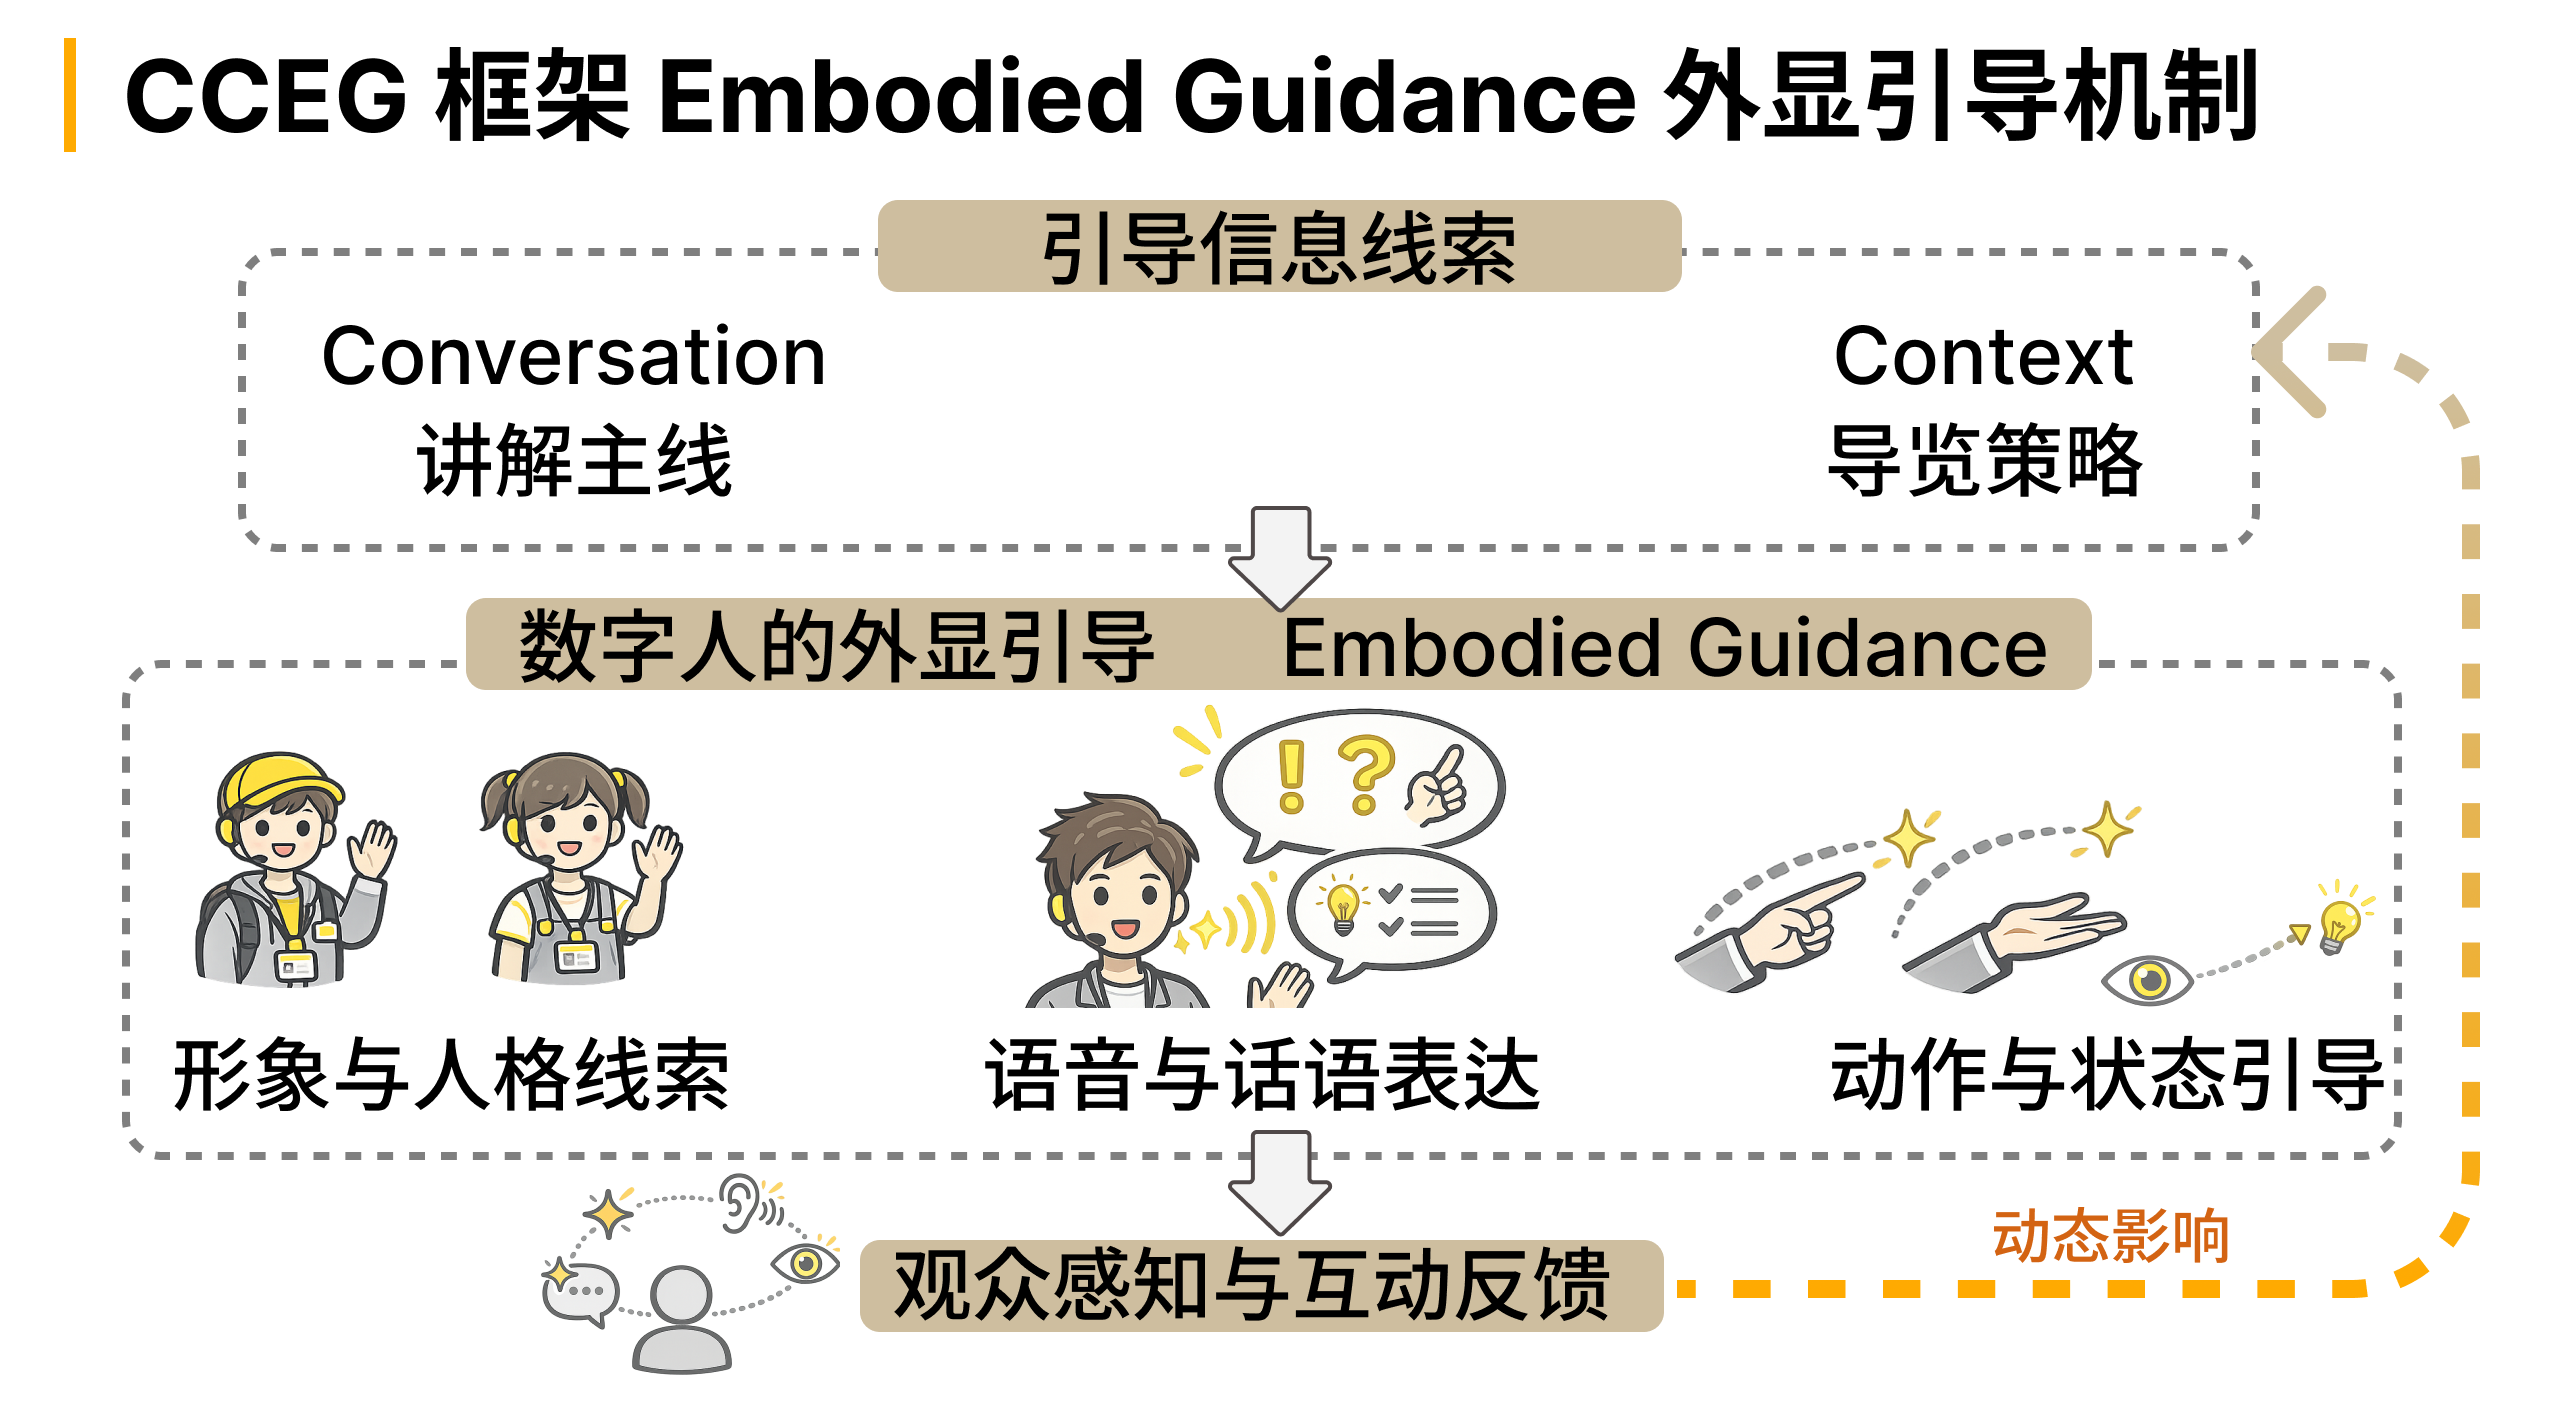
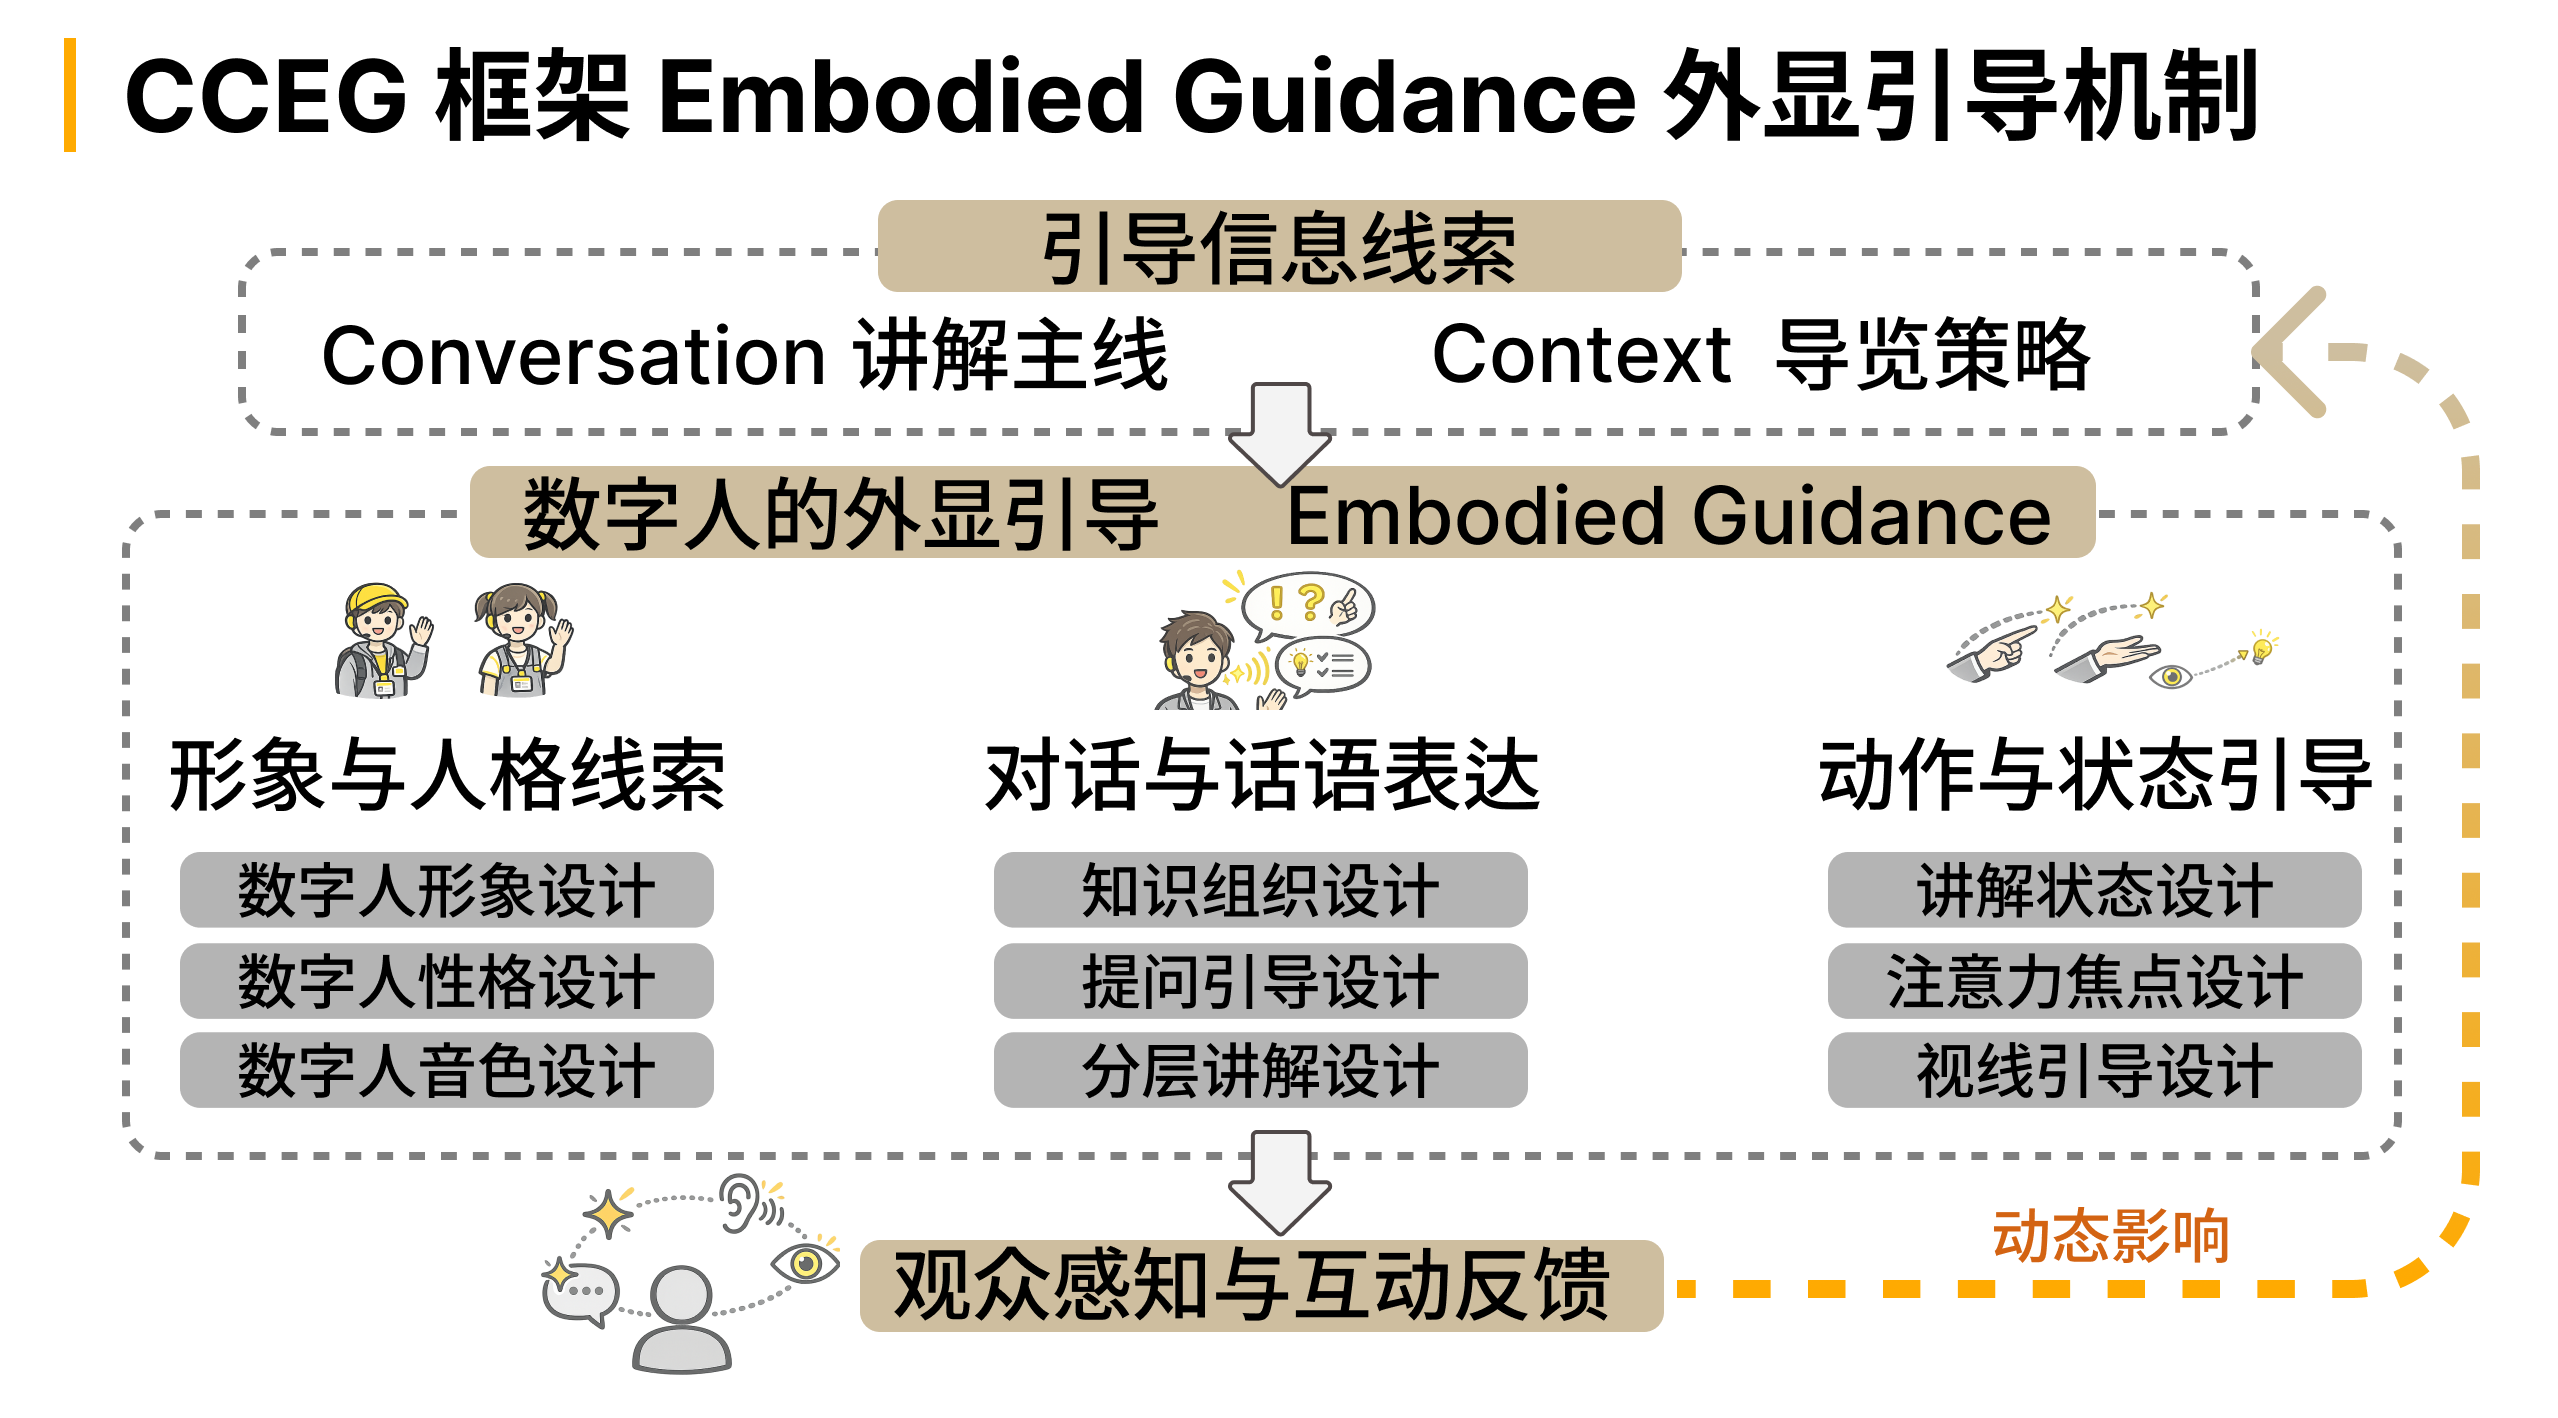
同步研究问题与论文修改

diff --git a/data/chapter6-implement.tex b/data/chapter6-implement.tex
@@ -15,19 +15,27 @@
 基于上述目标，本文通过对比不同导览方式下的用户体验与过程表现，考察对话式数字人导览原型系统在知识讲述、情境响应与注意力引导方面的实际效果，从而为本文提出的对话式数字人展示设计提供验证依据。
 
 \section{实验设计}
-为了评估本文所提出的对话式数字人展示设计在实际导览任务中的表现，本研究采用对比实验方法，将本文实现的 CCEG 对话式数字人导览原型系统与单轮问答式数字人导览基线系统进行比较，从而观察不同导览机制下用户体验与交互行为的差异。本文的研究目标在于验证 CCEG 设计作为整体导览方案相较于常见问答式数字人导览方式的有效性，本研究仅设置一个基线条件，不进一步拆分各模块进行消融比较。
+为了评估本文所提出的对话式数字人展示设计在实际导览任务中的表现，本研究采用对比实验方法，将本文实现的 CCEG 对话式数字人导览原型系统与传统问答数字人系统进行比较，从而观察不同导览机制下用户体验与交互行为的差异。本文的研究目标在于验证 CCEG 设计作为整体导览方案相较于常见问答式数字人导览方式的有效性，本研究仅设置一个基线条件，不进一步拆分各模块进行消融比较。
 
 实验设置两个条件：
 
-\textbf{（1）基线条件（单轮问答式数字人导览系统）}
+\textbf{（1）基线条件（传统问答数字人系统）}
 基线条件下，系统使用与实验系统相同的展品知识来源、数字人形象与语音输出方式，但仅针对用户当前问题给出单次回答，不维护连续对话中的导览情境状态，不进行主动追问、主题推进与讲解层次调节，也不提供面向展品对象的专门动作、视线与语气引导策略。该条件用于模拟当前较为常见的问答式数字人导览形态。
 
 \textbf{（2）实验条件（CCEG系统）}
 实验条件采用本文设计实现的对话式数字人导览原型系统。该系统在相同知识基础与数字人载体上，进一步加入面向导览任务的对话组织、情境状态维护与具身引导机制，使系统能够围绕当前展品持续组织讲解，并结合参观进程与表达策略进行导览引导。
 
-实验选取同一展区中的若干典型展品作为导览对象。为保证比较的可比性，两种条件下使用相同的展品内容与任务要求。参与者在实验过程中需要围绕这些展品完成一次简短的导览体验任务，包括浏览展品信息、向系统提出问题以及根据系统反馈继续了解相关内容。
+实验选取同一展区中的若干典型展品作为导览对象。为保证比较的可比性，两种条件下使用相同的展品内容、相同的任务要求、相同的数字人载体与相同的评价条目，参与者在实验过程中需要围绕这些展品完成一次简短的导览体验任务，包括浏览展品信息、向系统提出问题以及根据系统反馈继续了解相关内容。除导览机制本身外，其余条件尽可能保持一致，以控制无关变量对实验结果的影响。
 
-本实验共邀请 12 名参与者，参与者均为具有基础博物馆参观经验的学生或普通观众。为减弱体验顺序可能带来的影响，实验采用 A/B 两组交叉验证的方式进行：将参与者平均分为 A、B 两组，A 组先体验基线条件、后体验实验条件，B 组先体验实验条件、后体验基线条件。参与者在每次体验结束后分别填写问卷，对导览过程中的讲解连贯性、情境响应以及注意力引导等方面进行评价。
+本实验共邀请 12 名参与者，参与者均为具有基础博物馆参观经验的学生或普通观众。为减弱体验顺序可能带来的影响，实验采用 A/B 两组交叉验证的方式进行：将参与者平均分为 A、B 两组，A 组先体验基线条件、后体验实验条件，B 组先体验实验条件、后体验基线条件。实验过程中不向参与者说明当前所体验条件对应的系统类型，仅告知其完成两轮不同导览方式的体验任务。参与者在每次体验结束后分别填写相同问卷，对导览过程中的讲解连贯性、情境响应以及注意力引导等方面进行评价。
+
+如图\ref{fig:user-study-procedure}所示，实验通过 A/B 两组交叉验证的方式组织两种导览条件的体验顺序，以减弱先后体验带来的顺序影响。
+
+\begin{center}
+    \includegraphics[width=\textwidth]{figure/figs/User_study_procedure.png}
+    \captionof{figure}{用户实验流程示意图}
+    \label{fig:user-study-procedure}
+\end{center}
 
 实验流程如下：
 \begin{enumerate}
@@ -37,7 +45,7 @@
     \item A 组继续体验实验条件、B 组继续体验基线条件，并重复上述流程。
 \end{enumerate}
 
-通过对比两种条件下的用户评价与过程表现，可以观察完整 CCEG 导览设计相较于单轮问答式数字人导览方式，是否在知识讲述支持、情境响应能力以及注意力引导方面表现更优。
+通过对比两种条件下的用户评价与过程表现，可以观察完整 CCEG 导览设计相较于传统问答数字人系统，是否在知识讲述支持、情境响应能力以及注意力引导方面表现更优。
 
 \section{评估指标设计}
 为了对应验证本文提出的三个研究问题，实验评估不再采用笼统的整体满意度划分，而是围绕知识讲述支持、情境响应能力和注意力引导效果三个维度展开。该指标设计分别对应前文中提出的展品知识交互化呈现问题、导览情境维持问题以及数字人注意力引导不足问题，并与 CCEG 框架中的 Conversation、Context 和 Embodied Guidance 三个部分保持一致。

diff --git a/data/chapter1-intro.tex b/data/chapter1-intro.tex
@@ -31,7 +31,7 @@
 发现三：数字人的展示形态与导览任务之间仍存在错位。
 在走访中观察到，部分博物馆中的数字人更多以固定脚本、预录视频或演示型播报的方式出现，其优势在于形象鲜明、展示效果稳定，但在真实导览任务中的适配性有限。一方面，这类数字人通常难以随着观众提问、路径变化或现场语境变化进行调整；另一方面，其动作、视线、节奏与表达设计往往服务于“被观看”或“形象展示”，而非服务于观众在展厅中的理解、注意与移动引导。换言之，数字人已经被广泛用于传播展示，但其作为导览媒介的能力仍未得到充分发挥。
 
-上述前期发现表明，当前面向博物馆导览的数字人展示的主要问题并不只在于“能否回答问题”或“是否具有人形外观”，而在于其尚未有效支持真实参观过程中连续性的讲解组织、阶段性的情境适配以及面向导览任务的具身引导。基于此，本文将进一步结合对话式导览、博物馆学习与数字人展示等相关研究，梳理能够支撑博物馆导览体验的关键设计维度，并据此提出后续研究问题与设计框架。
+上述前期发现表明，当前面向博物馆导览的对话式数字人展示普遍缺乏认知层设计：相关展示虽然能够回答问题，却往往不知道应当组织什么层次的内容，难以感知当前参观情境，身体表达也常与讲解意图相互脱节。这使数字人更多停留在“能表达”的层面，而难以真正承担导览引导的任务。基于此，本文将进一步结合对话式导览、博物馆学习与数字人展示等相关研究，梳理能够支撑博物馆导览体验的关键设计维度，并据此提出后续研究问题与设计框架。
 
 \section{研究思路}
 本文围绕“面向博物馆导览的对话式数字人展示设计”展开，整体研究链路按照“研究背景—研究问题—研究内容—设计实践与验证”推进，如图1.1所示。研究起点是博物馆导览场景的数字化转型与人工智能生成技术/数字人技术的应用契机，核心目标是回答“如何设计面向博物馆导览的对话式数字人展示”。
@@ -43,7 +43,7 @@
     \label{fig:research-roadmap}
 \end{figure}
 
-据此，本文将研究问题归纳为三个方面：
+据此，本文将总问题进一步细化为三个子问题：
 \begin{enumerate}[label=（\arabic*）]
 \item 展品知识信息复杂，难以交互化呈现。现有相关展示常以固定脚本或单轮问答组织内容，难以形成分层解释、探索式提问引导与节奏化推进，导致观众获取到的是片段信息而非连续理解路径。
 \item 导览情境易断裂，参观状态难以把握。观众在空间移动、对象切换与问题变化中不断重构关注点，相关展示若缺少可持续的情境建模与状态维护，便难以提供“此时此地”的导览响应。

diff --git a/data/chapter3-download.tex b/data/chapter3-download.tex
@@ -15,7 +15,7 @@
 \textbf{（3）媒介约束：数字人展示是多模态外显系统。}
 在数字人导览中，语音、指向、视线、姿态与停顿共同构成“展示编排”，承担强调重点、回收注意力与提示行动的功能；若缺少可控的外显引导机制，系统将退化为“会说话的播报器”，难以形成可感知的引导感与节奏感。
 
-综上，面向博物馆导览的对话式数字人展示设计必须同时解决三类不可替代能力：\textbf{叙事组织（Conversation）}、\textbf{导览情境（Context）}与\textbf{外显引导（Embodied Guidance）}。CCEG 正是对这三类能力的最小结构化整合。
+综上，面向博物馆导览的对话式数字人展示设计必须同时解决三类不可替代能力：\textbf{叙事组织（Conversation）}、\textbf{导览情境（Context）}与\textbf{外显引导（Embodied Guidance）}。CCEG 正是对这三类能力的最小结构化整合。其中，Conversation 与 Context 共同处理导览中的认知层问题，即讲解内容如何被组织、当前参观情境如何被判断与维持；Embodied Guidance 则主要处理表达层问题，即这些内部组织结果如何进一步转化为观众能够直接感知的外显引导。
 
 \subsection{三维必要性：语言组织、导览情境与展示外显的不可替代性}
 \textbf{（1）叙事组织维度。}

diff --git a/weekly-progress-0120-0420.md b/weekly-progress-0120-0420.md
@@ -1,0 +1,105 @@
+# 论文每周进展记录（1月20日-4月20日）
+
+## 第1周（1月20日-1月26日）
+### 完成情况
+明确论文方向，初步确定博物馆导览与数字人研究范围。
+### 存在问题
+题目表述偏宽，研究对象与方法边界仍不够清楚。
+### 下周情况
+继续开展案例收集，梳理前期调研与研究动机材料。
+
+## 第2周（1月27日-2月2日）
+### 完成情况
+整理数字人导览案例，归纳真实场景中的主要问题表现。
+### 存在问题
+相关案例较分散，研究问题尚未形成稳定的表述结构。
+### 下周情况
+补充走访观察与访谈信息，推进研究动机部分写作。
+
+## 第3周（2月3日-2月9日）
+### 完成情况
+完成前期调研整理，形成研究动机与核心发现初稿。
+### 存在问题
+三个发现之间的逻辑衔接还不够紧密，措辞需统一。
+### 下周情况
+修改绪论内容，补写研究思路、研究方法与论文结构。
+
+## 第4周（2月10日-2月16日）
+### 完成情况
+完成第一章主要内容搭建，初步形成绪论章节框架。
+### 存在问题
+章节之间仍有重复，部分术语使用还不够一致准确。
+### 下周情况
+系统梳理国内外研究现状，调整第二章组织结构安排。
+
+## 第5周（2月17日-2月23日）
+### 完成情况
+完成第二章文献综述框架，整理相关研究主题与脉络。
+### 存在问题
+文献综述与后文设计问题之间的连接还不够直接清晰。
+### 下周情况
+继续补充理论基础内容，强化导览任务与学习视角关联。
+
+## 第6周（2月24日-3月2日）
+### 完成情况
+完成博物馆学习相关理论梳理，形成第三章前半部分。
+### 存在问题
+理论描述偏概念化，对设计框架的支撑关系仍需加强。
+### 下周情况
+补写对话式交互与具身数字人展示相关理论分析内容。
+
+## 第7周（3月3日-3月9日）
+### 完成情况
+基本完成第三章内容，形成理论基础与概念分析初稿。
+### 存在问题
+框架推导部分尚未展开，章节命名和术语有待继续统一。
+### 下周情况
+启动第四章撰写，提炼CCEG框架及其三维结构关系。
+
+## 第8周（3月10日-3月16日）
+### 完成情况
+提出CCEG框架，明确叙事组织、导览情境与外显引导。
+### 存在问题
+三维机制之间的递进关系表达还不够稳定和自然顺畅。
+### 下周情况
+细化第四章各节内容，补充图表与机制说明文字部分。
+
+## 第9周（3月17日-3月23日）
+### 完成情况
+完成第四章主体内容，补充框架表格、插图与本章小结。
+### 存在问题
+部分图注和小节命名反复调整，版式还需要继续优化。
+### 下周情况
+开始第五章设计实践撰写，建立系统目标与结构映射。
+
+## 第10周（3月24日-3月30日）
+### 完成情况
+搭建第五章整体结构，完成设计目标与实践框架初稿。
+### 存在问题
+系统实现描述偏概括，缺少对交互机制的展开说明部分。
+### 下周情况
+补写对话组织、情境状态与具身交互三个实践模块。
+
+## 第11周（3月31日-4月6日）
+### 完成情况
+补全第五章大部分内容，加入界面图、表格与状态设计。
+### 存在问题
+实验设计尚未展开，部分实现表述与设计表述需区分。
+### 下周情况
+撰写第六章实验方案，明确条件设置和问卷评价指标。
+
+## 第12周（4月7日-4月13日）
+### 完成情况
+完成实验设计、附录问卷与交叉验证流程的初步写作。
+### 存在问题
+实验结果分析尚未补足，术语统一和细节修改任务较多。
+### 下周情况
+继续统改全文，优化图表版式并整理结论与附录内容。
+
+## 第13周（4月14日-4月20日）
+### 完成情况
+完成全文统稿、章节重构、版本管理与论文阶段性定稿。
+### 存在问题
+实验结果数据分析部分仍待后续补充与进一步完善表达。
+### 下周情况
+根据后续实验结果继续完善第六章与最终定稿材料内容。